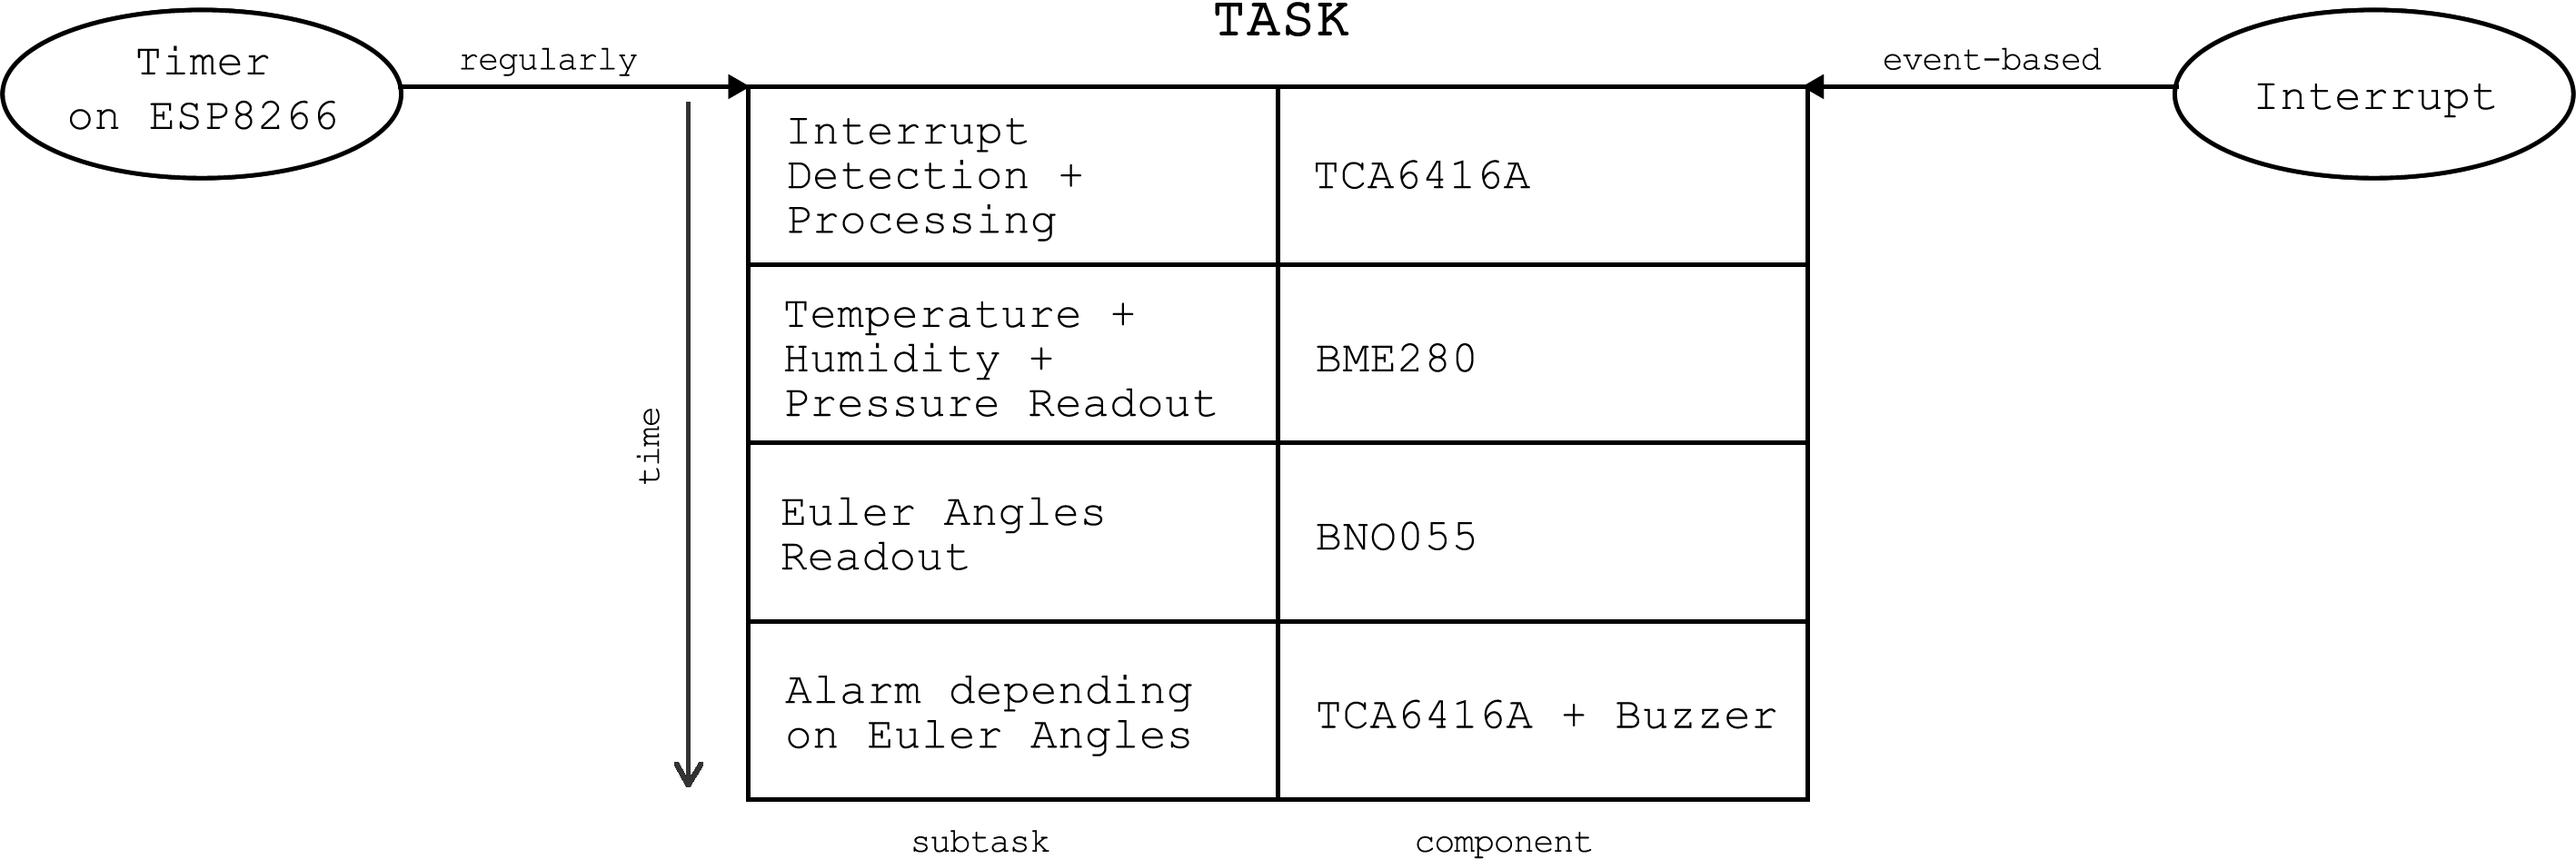
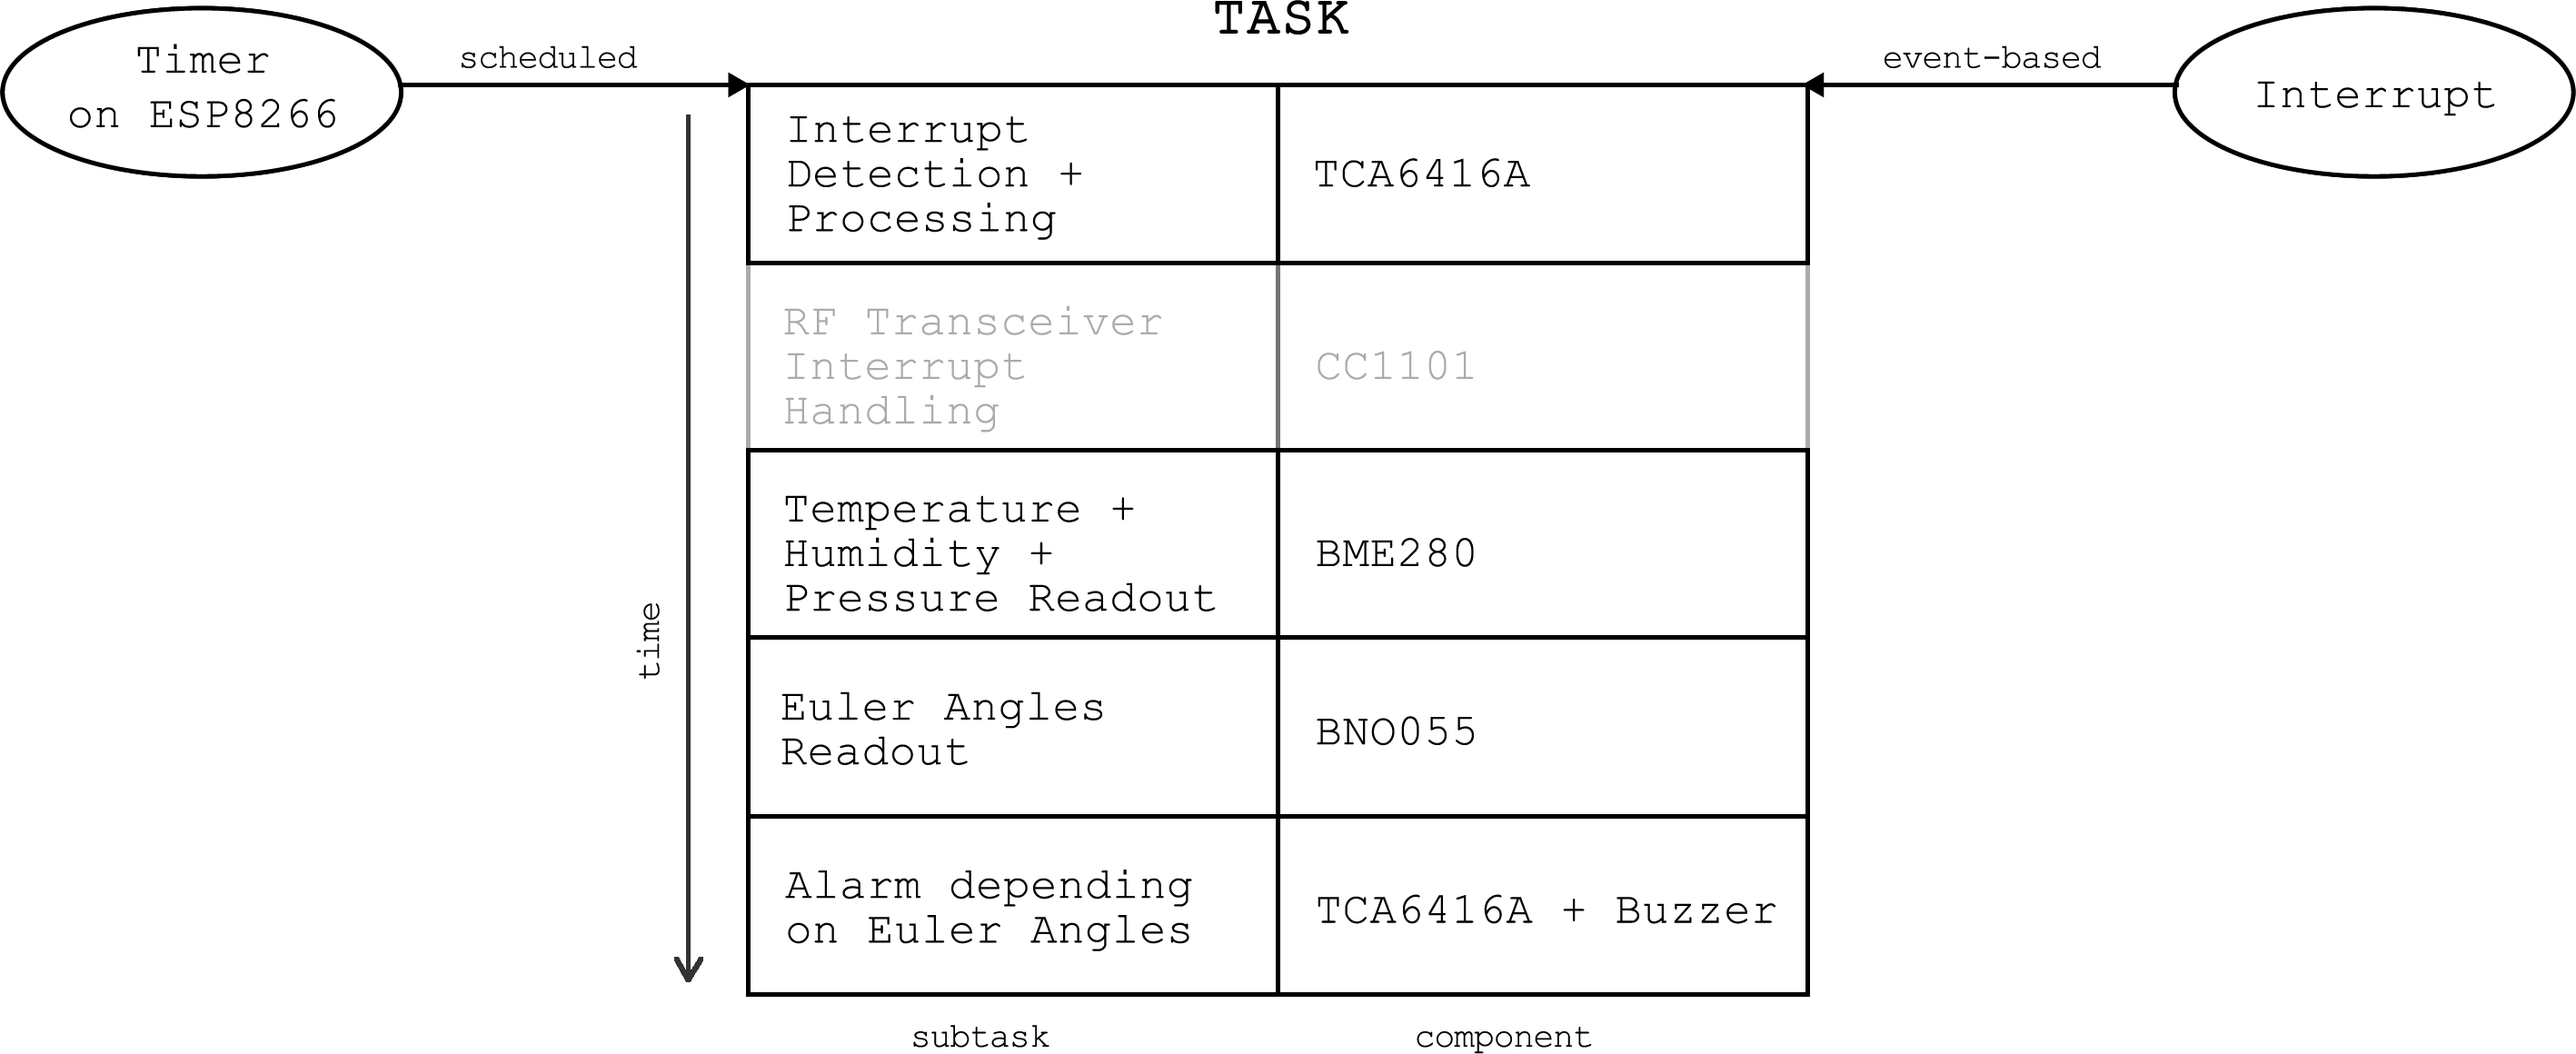
Clean up pages

diff --git a/page/hardware/03-planning.md b/page/hardware/03-planning.md
@@ -10,11 +10,13 @@ Then, you are forced to switch to a lower level to remedy the defect for example
 But if you are planning and assembling some hardware, you must not make any mistakes or you might destroy your new ICs or get a set of useless PCBs.
 So, the planning process has to be done very carefully.
 
+<!--
 LIOT_ESP8266_ENV
 
 It doesn't really matter what the LIOT-ESP8266 board can do.
 Rather, it is relevant what concepts are covered by the selected components.
 These concepts include electrotechnical basics, connection interfaces, transmission standards and other features supported by the used hardware.
+-->
 
 
 Microcontroller
@@ -52,6 +54,7 @@ The pin description is fitted a bit to the applications that are really used.
 ![ESP8266EX Pin Description](/media/liot_esp8266_env/hardware/planning/esp8266ex-pin-description.png)
 *ESP8266EX Pin Description [^esp8266ex-datasheet] [^pin-description]*
 
+<!--
 ################
 
 Then, it is started with the main connections on the board.
@@ -74,6 +77,7 @@ Admittedly, also the power supply offers a wide range of options, but nonetheles
 ################
 
 GPIO 16 must be connected to the EXT\_RSTB pin of the ESP8266EX to be able to wakeup from deep sleep again.
+-->
 
 
 Battery Power Supply
@@ -89,10 +93,14 @@ With these, we don't need to care about overcharge / discharge protection in our
 
 As the battery voltage fluctuates between 4.2 V at full charge and about 3.4 V at full discharge, but the ESP8266EX is only tolerant to voltages of 3.0 to 3.6 V, a voltage regulator is required.
 
+<!--
 <http://www.ti.com/product/TPS737>
+-->
 
 ![Texas Instruments TPS737 LDO Regulator](/media/liot_esp8266_env/hardware/planning/tps737-image.jpg)
 *Texas Instruments TPS737 LDO Regulator [^tps737-datasheet]*
+
+...
 
 
 Serial Flash Memory
@@ -204,6 +212,7 @@ Inertial Measurement Unit
 Other Components
 ----------------
 
+<!--
 The requirement for dimmable LED's may be waived foremost.
 Instead, they will be connected to the port expander to simply switch them on and off.
 Pins 4 and 5 will be used for software-I2C.
@@ -215,6 +224,7 @@ In order to get in the signaler, a trick will be used.
 The signaler will be connected to the I2C clock line via a transistor.
 Since the I2C interface will be implemented only by software, it can be achieved to obtain mutual exclusion of both components;
 the signaler will only be enabled if the transistor is switched on by a GPIO of the port expander and thus will not make any noise if I2C is used, and the I2C slaves will not receive any data when the signaler is used and thus ignore the false "clock signal".
+-->
 
 
 LIOT_ESP8266_ENV

diff --git a/page/hardware/01-basics.md b/page/hardware/01-basics.md
@@ -163,26 +163,27 @@ Depending on the application area and the environment, however, other power sour
 In digital schematics mainly distinction between power source, often named VCC (positive pole) and ground, often named GND (negative pole).
 
 ### Resistors
- 
+
+<!--
 (passive)
 
 Wires just like resistors, ...
+-->
 
 ![Resistor Symbol](/media/liot_esp8266_env/hardware/basics/resistor-symbol.png)
 *EU and US symbol of a resistor*
 
 ### Capacitors
 
+<!--
 Capacitors are passive components and allow to make use of capacitance.
+-->
 
 ![Capacitor Symbol](/media/liot_esp8266_env/hardware/basics/capacitor-symbol.png)
 *EU and US symbol of a capacitor*
 
-...
 
 ### Inductors
-
-passive
 
 ![Inductor Symbol](/media/liot_esp8266_env/hardware/basics/inductor-symbol.png)
 *EU and US symbol of a inductor*
@@ -206,17 +207,20 @@ Since both the current and the voltage at the base can be significantly smaller 
 
 MOS-FET
 
+<!--
 Selbstsperrend, selbstleitend
 
 * P-Kanal MOS-FET wird durchgeschaltet, wenn 0 an Gate
 
 * N-Kanal MOS-FET wird durchgeschaltet, wenn 1 an Gate
+-->
 
 ![MOSFET Symbol](/media/liot_esp8266_env/hardware/basics/mosfet-symbol.png)
 *Symbol of an N-channel and P-channel MOSFET, enhancement-mode above, depletion-mode below*
 
 ### Diodes
 
+<!--
 active
 
 Diode
@@ -230,9 +234,13 @@ See http://cdn2.rare-earth-magnets.com/images/content/conventional-versus-electr
 Flyback / Flywheel diode
 On Inductive loads
 https://en.wikipedia.org/wiki/Flyback_diode
+-->
 
+### Integrated Circuits
 
-### Integrated Circuits (active)
+<!--
+(active)
+-->
 
 Regulators
 Logic Gates

diff --git a/page/hardware/04-design.md b/page/hardware/04-design.md
@@ -20,6 +20,7 @@ CAD Software
 The hardware will be designed with the popular CAD software [Eagle](http://www.cadsoft.de/download-eagle/eagle-freeware/).
 Other options exist.
 
+<!--
 The software launches with its *Control Panel*.
 Create a new *Project* by clicking *File*, *New* and *Project*.
 By rightclicking the just created project, you can now create a new *Schematic* for your project.
@@ -47,6 +48,7 @@ That's the only way to be sure not to copy the mistakes of others.
 Before starting with adding devices to your schematic, let's create an own device - the ESP8266EX.
 
 Switch to the control panel window and select *File*, *New* and *Library*.
+-->
 
 
 Microcontroller

diff --git a/page/software/02-input-output.md b/page/software/02-input-output.md
@@ -59,6 +59,7 @@ void user_start()
 General-Purpose I/O
 -------------------
 
+<!--
 ...
 
 ```c
@@ -90,6 +91,7 @@ uint32 gpio_input_get(void);
 ```
 
 Furthermore, it is possible to decide between the output stages push-pull and open-collector (see [Hardware Interfaces](/hardware/interfaces/#general-purpose-inputoutput).
+-->
 
 
 I2C Driver

diff --git a/page/software/04-tasks-timers-interrupts.md b/page/software/04-tasks-timers-interrupts.md
@@ -22,5 +22,11 @@ Interrupts
 ----------
 
 
+Interaction
+-----------
+
+![](/media/liot_esp8266_env/software/tasks-timer-interrupts/task.png)
+
+
 References
 ----------

diff --git a/page/software/03-wi-fi-transceiver.md b/page/software/03-wi-fi-transceiver.md
@@ -124,6 +124,8 @@ void HTTPD_on_receive(
 MQTT Client
 -----------
 
+* <https://github.com/tuanpmt/esp_mqtt>
+
 
 References
 ----------
